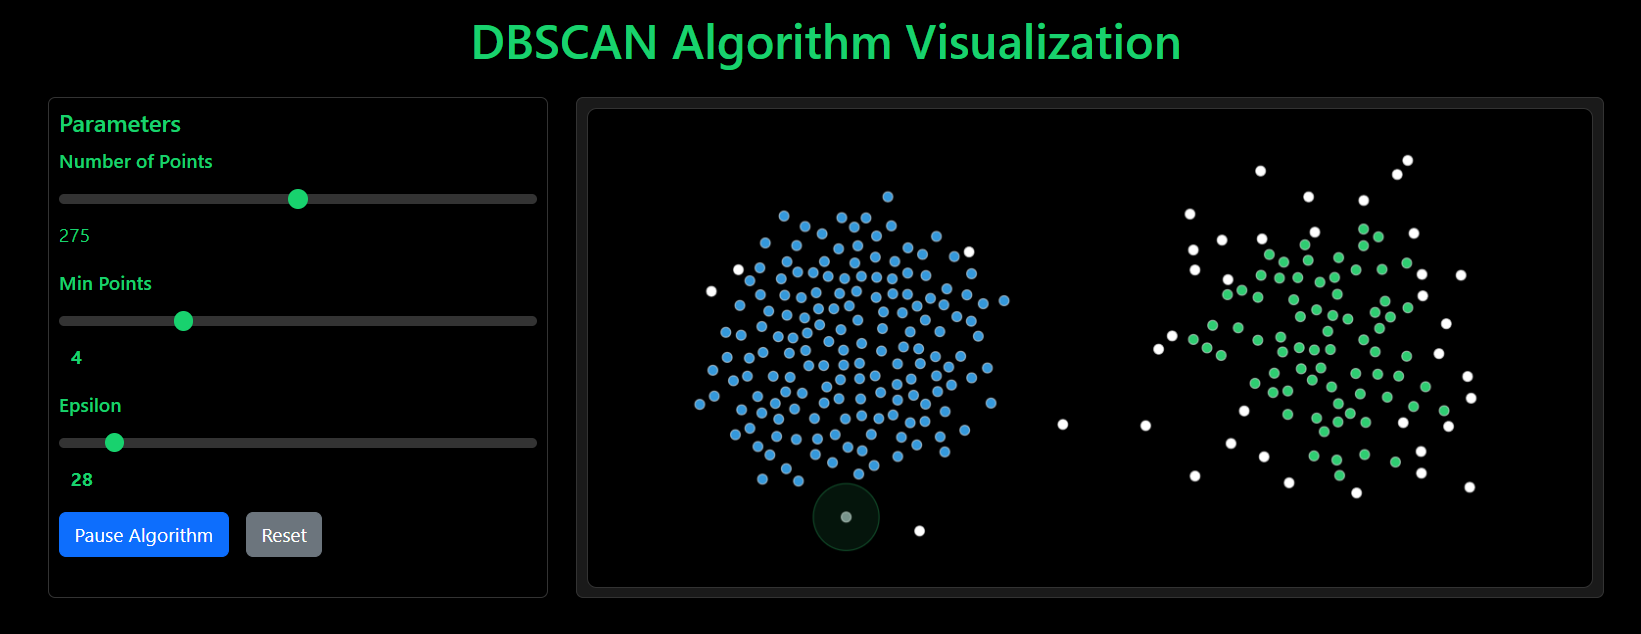
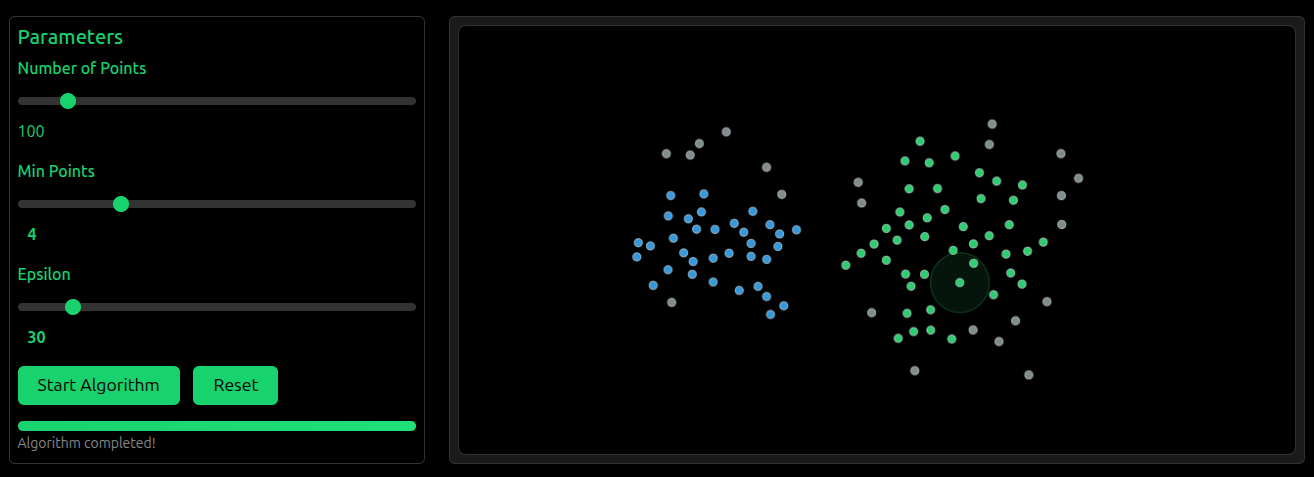
doc: update README files with live demo badges and improve project descriptions

diff --git a/dbscan-visualization/js/script.js b/dbscan-visualization/js/script.js
@@ -464,8 +464,8 @@ class DBSCANVisualizer {
         
         // Calculate cluster centers
         const centerY = canvasHeight / 2;
-        const cluster1X = margin + usableWidth * 0.25;
-        const cluster2X = margin + usableWidth * 0.75;
+        const cluster1X = margin + usableWidth * 0.30;
+        const cluster2X = margin + usableWidth * 0.60;
         
         const centers = [
             { x: cluster1X, y: centerY },

diff --git a/README.md b/README.md
@@ -1,26 +1,27 @@
 # Learning Projects Repository
 
-Welcome to my **Learning Projects Repository**, where I share various projects I've created while teaching, learning and exploring topics in the field of deep learning. Each project is specifically designed to illustrate a particular concept, algorithm, or technique through an interactive and visual interface. The aim is to provide a practical and intuitive way to explore and understand the fundamentals of deep learning.
+Welcome to my **Learning Projects Repository**. This is a collection of interactive, web-based visualizations I've built to explore and teach core concepts in machine learning and deep learning. Each project focuses on a specific algorithm, providing an intuitive and hands-on way to understand how it works through step-by-step execution and parameter adjustment.
 
 ## Unsupervised Learning
 
-### 1. [DBSCAN Algorithm Visualization](https://github.com/gussttaav/learning-tools/tree/main/dbscan-visualization)
+### 1. [DBSCAN Algorithm Visualization](https://github.com/gussttaav/learning-tools/tree/main/dbscan-visualization) [![Vercel Deployment](https://img.shields.io/badge/Vercel-Live_Demo-blue?style=flat)](https://learning-tools-peach.vercel.app/)
+
 An interactive web-based visualization tool for the DBSCAN (Density-Based Spatial Clustering of Applications with Noise) clustering algorithm. This project helps users understand how DBSCAN works by providing a step-by-step visual representation of the clustering process.
 
 ## Deep Learning
 
-### 1. [2D Gradient Descent Visualization](https://github.com/gussttaav/learning-tools/tree/main/gradient-descend-2D)
-An interactive web-based tool for visualizing the gradient descent algorithm in 2D. It demonstrates how the algorithm converges towards a local minimum by iteratively selecting the initial value and the learning rate.
+### 1. [2D Gradient Descent Visualization](https://github.com/gussttaav/learning-tools/tree/main/gradient-descend-2D) [![Vercel Deployment](https://img.shields.io/badge/Vercel-Live_Demo-blue?style=flat)](https://gradient-descend2.vercel.app/)
+A visual exploration of the gradient descent optimization algorithm in two dimensions. This tool allows you to experiment with different starting points and learning rates to see how they affect the path and convergence speed towards a local minimum.
 
-### 2. [3D Gradient Descent Visualization](https://github.com/gussttaav/learning-tools/tree/main/gradient-descend-3D)
-An interactive web-based tool for visualizing the gradient descent algorithm in 3D. It demonstrates how the algorithm converges towards a local minimum by iteratively selecting the initial point and the learning rate.
+### 2. [3D Gradient Descent Visualization](https://github.com/gussttaav/learning-tools/tree/main/gradient-descend-3D) [![Vercel Deployment](https://img.shields.io/badge/Vercel-Live_Demo-blue?style=flat)](https://gradient-descend3.vercel.app/)
+An extension of the 2D visualizer into three dimensions. This project illustrates the convergence of gradient descent on a 3D surface, offering a more spatial understanding of the optimization process. Adjust the initial point and learning rate to see the resulting descent path.
 
 ---
 
 ## How to Use This Repository
 
 1. Browse the projects listed above.
-2. Click the links to access individual project repositories.
+2. Click the title links to access individual project repositories and use the "Live Demo" badges to interact with the tool directly in your browser.
 3. Each sub-repository contains its own README file with setup instructions and details about the project.
 
 ## Contributing
@@ -29,4 +30,4 @@ Contributions are welcome! If you'd like to suggest improvements or add a new ed
 
 ## License
 
-This repository is licensed under the MIT License. See individual sub-repositories for more details on licensing.
+This repository is licensed under the [MIT License](LICENSE). See individual sub-repositories for more details on licensing.

diff --git a/dbscan-visualization/README.md b/dbscan-visualization/README.md
@@ -1,8 +1,8 @@
 # DBSCAN Algorithm Visualization
 
-An interactive web-based visualization tool for the DBSCAN (Density-Based Spatial Clustering of Applications with Noise) clustering algorithm. This project helps users understand how DBSCAN works by providing a step-by-step visual representation of the clustering process.
+[![Vercel Deployment](https://img.shields.io/badge/Vercel-Live_Demo-green?style=plastic&logo=vercel)](https://learning-tools-peach.vercel.app/)
 
-👉 **[Try it live here!](https://learning-tools-peach.vercel.app/)**
+An interactive web-based visualization tool for the DBSCAN (Density-Based Spatial Clustering of Applications with Noise) clustering algorithm. This project helps users understand how DBSCAN works by providing a step-by-step visual representation of the clustering process.
 
 [![DBSCAN Visualization](img/preview.png)](https://learning-tools-peach.vercel.app/)
 

diff --git a/gradient-descend-2D/README.md b/gradient-descend-2D/README.md
@@ -1,13 +1,13 @@
 # Gradient Descent Visualization
 
+[![Vercel Deployment](https://img.shields.io/badge/Vercel-Live_Demo-green?style=plastic&logo=vercel)](https://gradient-descend2.vercel.app/)
+
 An interactive web-based tool for visualizing the gradient descent algorithm in 2D. This project demonstrates how the algorithm converges towards a local minimum by iteratively updating the input based on the gradient of the function:  
 
 f(x) = x^4 - 5x^3 + 7x^2 - 3x 
 
 This function, which is a fourth-degree polynomial, exhibits multiple turning points and provides a clear visual representation of how gradient descent behaves in the presence of local minima and maxima.
 
-
-👉 **[Try it live here!](https://gradient-descend2.vercel.app/)**
 
 [![Gradient Descent Visualization](img/screenshot.png)](https://gradient-descend2.vercel.app/)
 

diff --git a/gradient-descend-3D/README.md b/gradient-descend-3D/README.md
@@ -1,12 +1,12 @@
 # Gradient Descent 3D Visualization
 
+[![Vercel Deployment](https://img.shields.io/badge/Vercel-Live_Demo-green?style=plastic&logo=vercel)](https://gradient-descend3.vercel.app/)
+
 An interactive web-based tool for visualizing the gradient descent algorithm in 3D. This project demonstrates how the algorithm converges towards a local minimum by iteratively updating the input based on the gradient of the function:
 
 f(x, y) = x^4 - 5x^3 + 7x^2 - 3x + y^2 - 2y
 
 This function exhibits multiple turning points and provides a clear visual representation of how gradient descent behaves in the presence of local minima and maxima.
-
-👉 **[Try it live here!](https://gradient-descend3.vercel.app/)**
 
 [![Gradient Descent Simulation Screenshot](img/screenshot.png)](https://gradient-descend3.vercel.app/)
 
